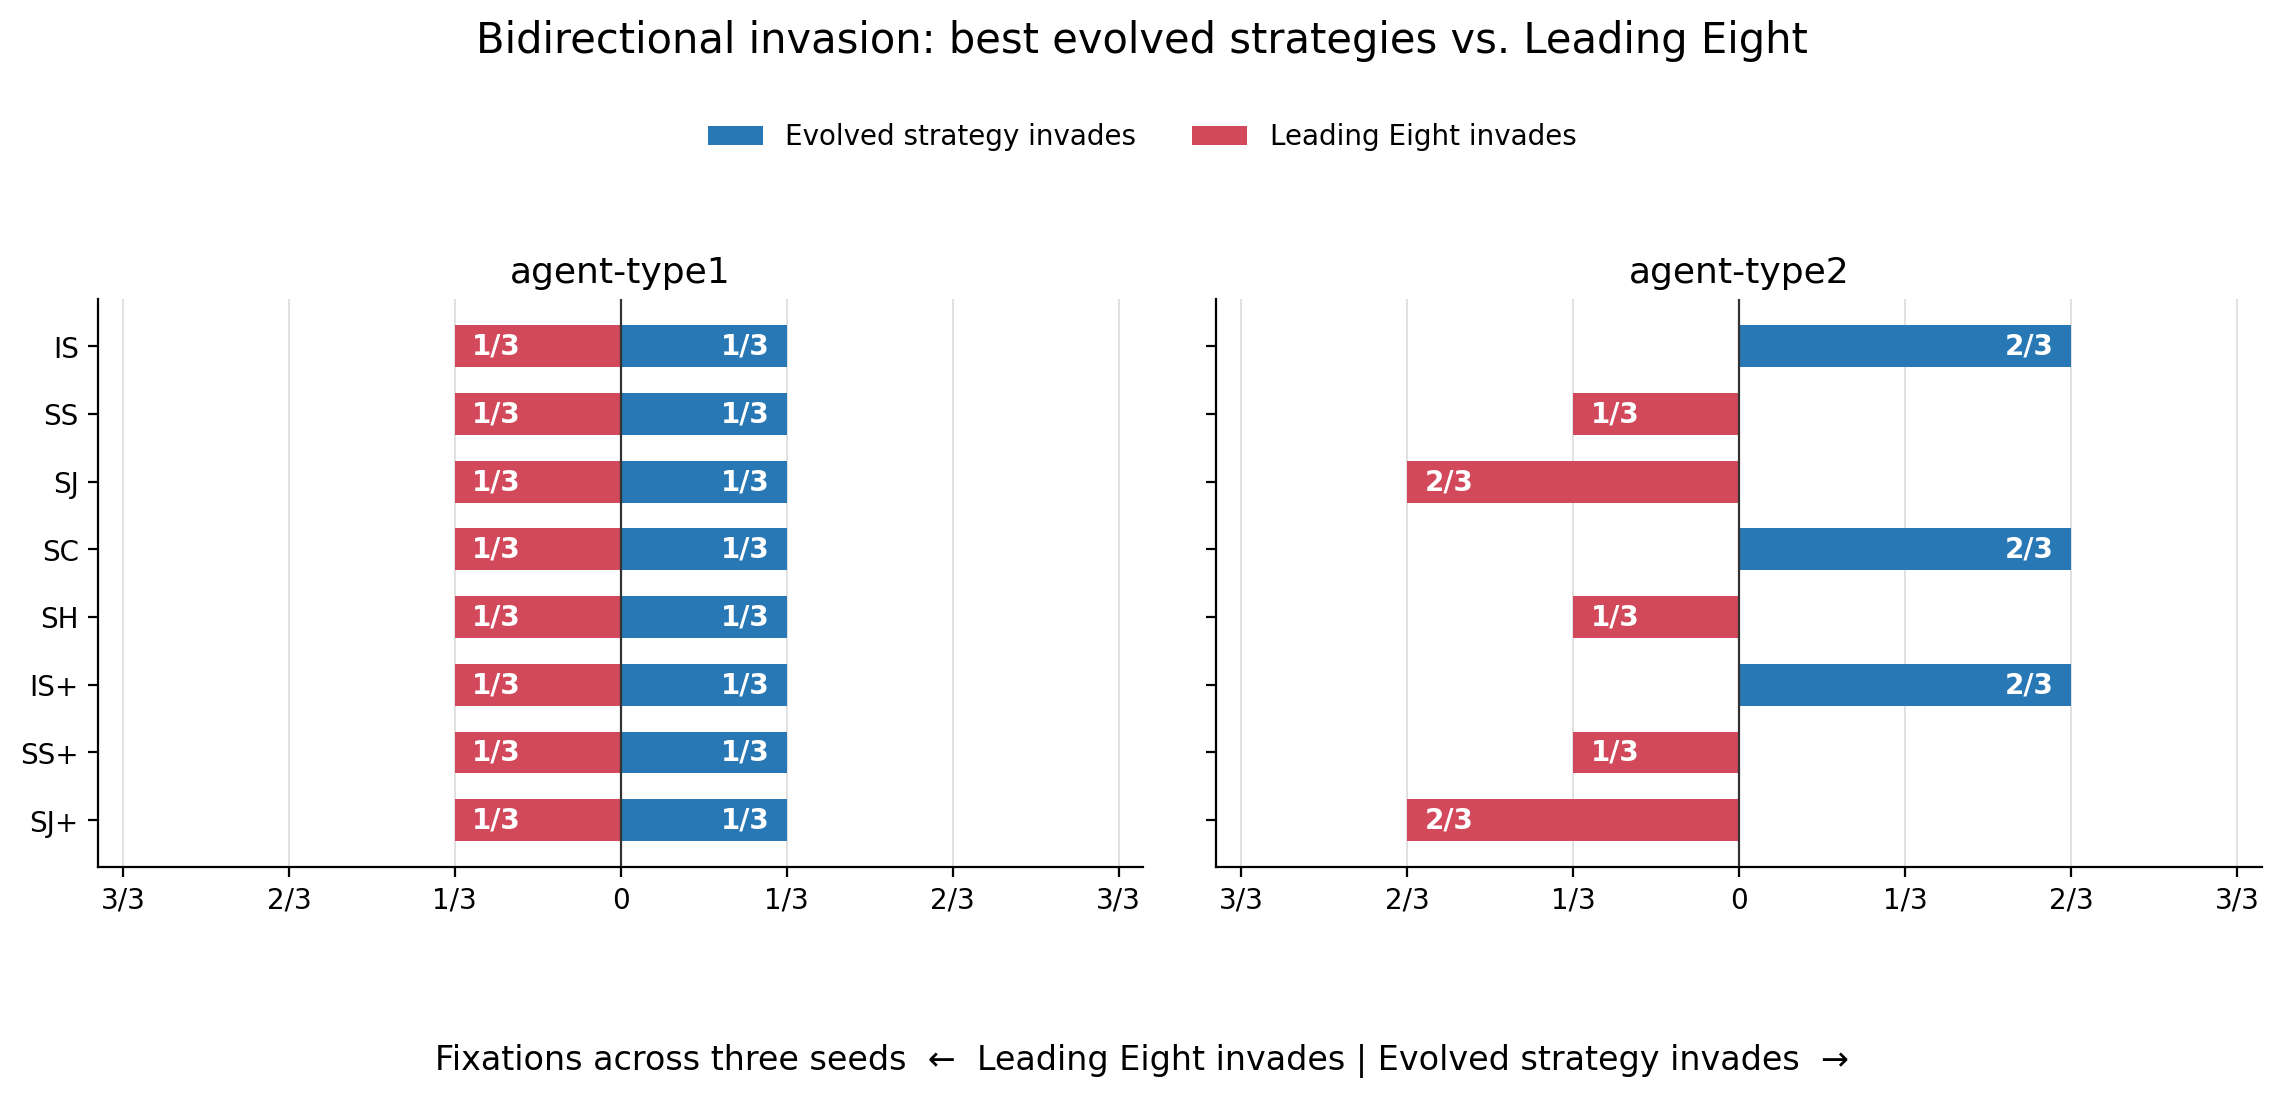
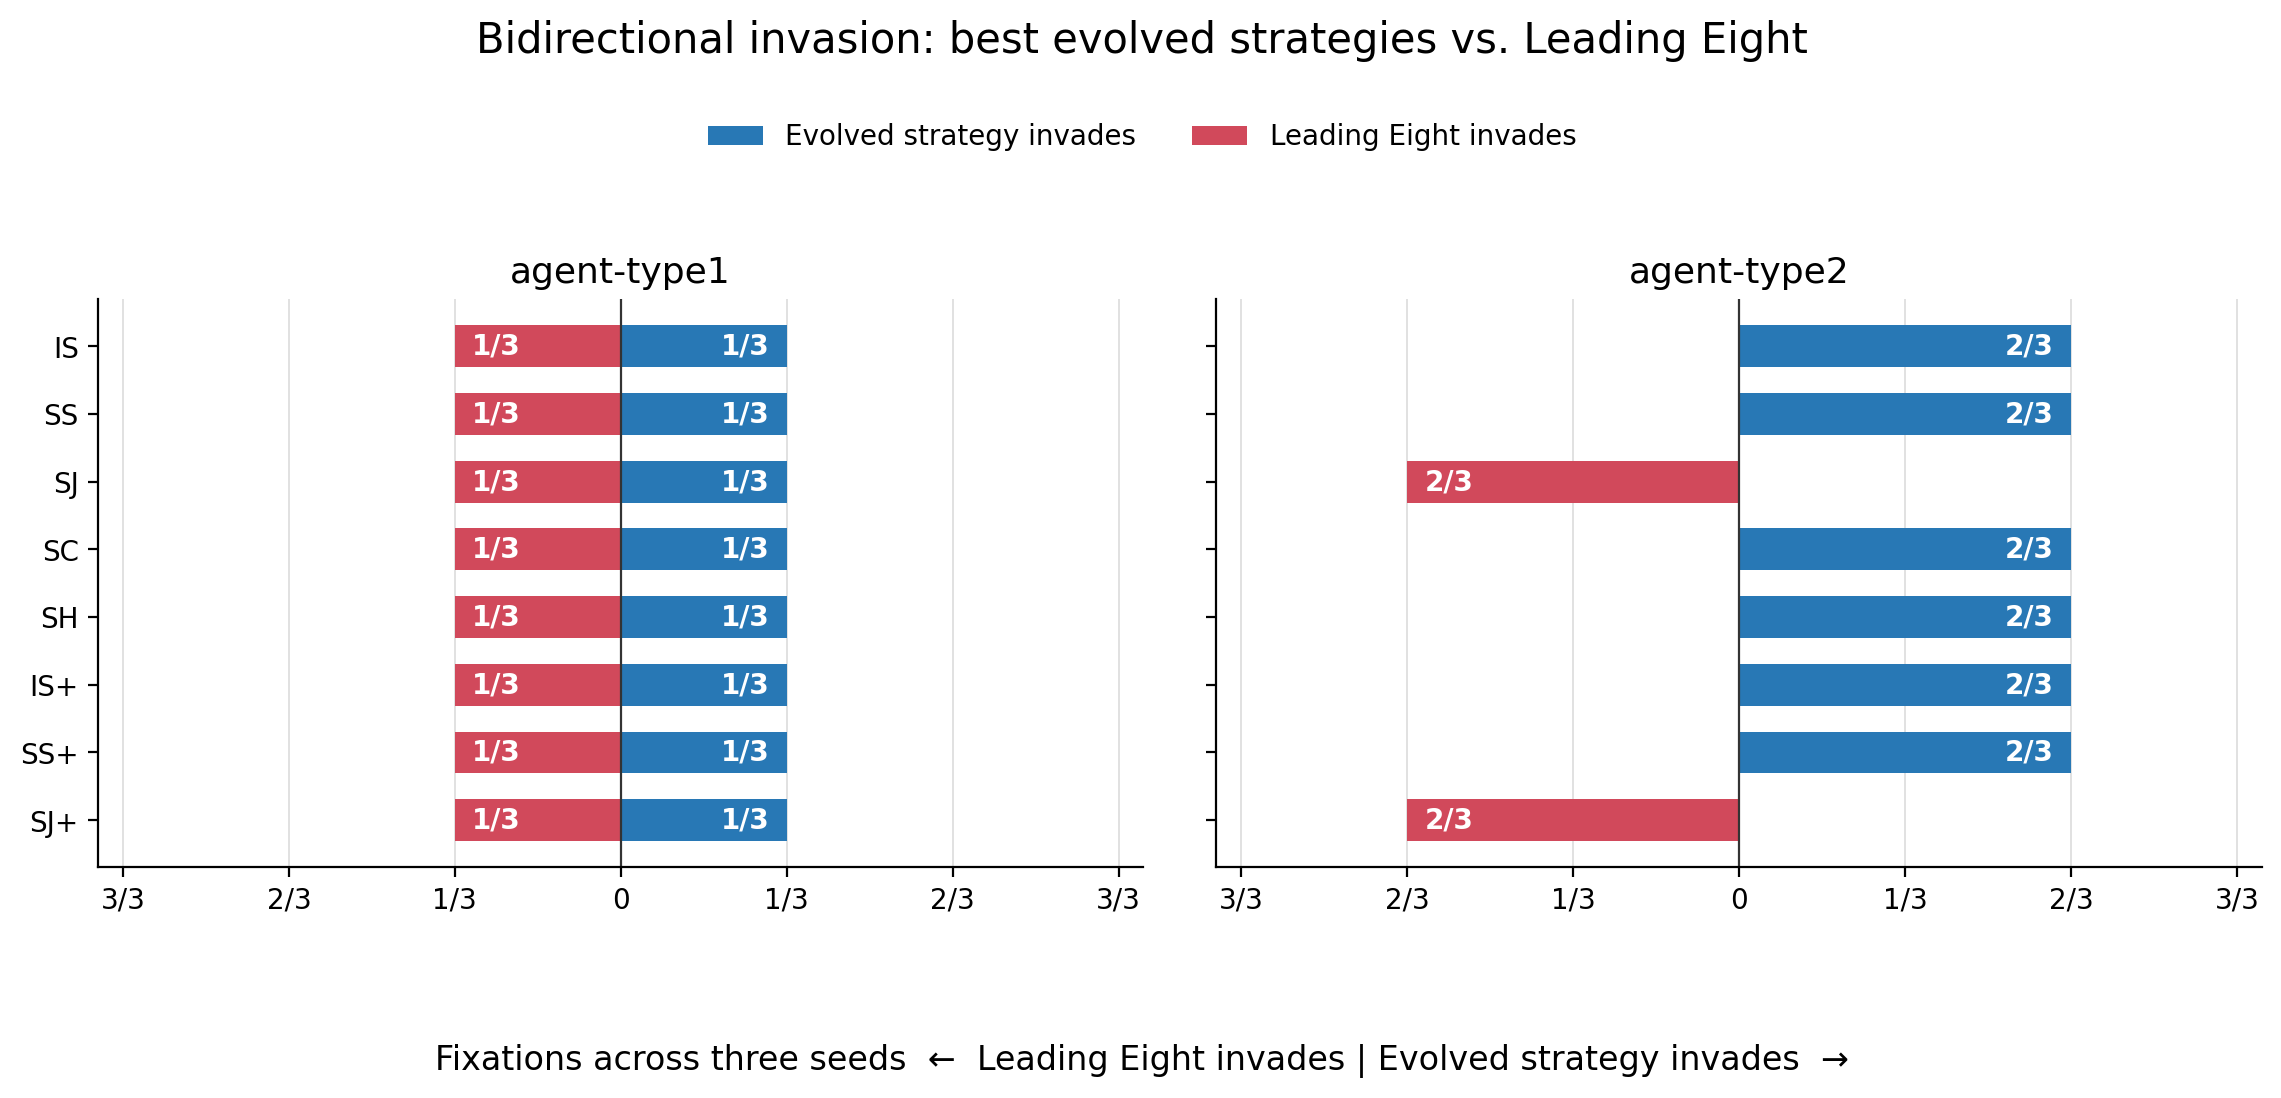
README

Changed region(s): [[0.6848, 0.6503, 0.9338, 0.7122], [0.6848, 0.5264, 0.9338, 0.5883], [0.6848, 0.3406, 0.9338, 0.4026]]

diff --git a/README.md b/README.md
@@ -6,32 +6,35 @@
 
 ## Demo
 
-### PCA strategy-space evolution (seed 0)
+### PCA strategy-space evolution
 
 | `agent-type1` | `agent-type2` |
 | --- | --- |
-| ![agent-type1 seed0 PCA strategy evolution](README.assets/agent-type1_seed0_pca_evolution.gif) | ![agent-type2 seed0 PCA strategy evolution](README.assets/agent-type2_seed0_pca_evolution.gif) |
+| ![agent-type1 seed4 PCA strategy evolution in the joint six-seed space](README.assets/agent-type1_joint6_seed4_pca_evolution.gif) | ![agent-type2 seed0 PCA strategy evolution](README.assets/agent-type2_seed0_pca_evolution.gif) |
 
-The animations use each agent type's latest shared embedding, clustering, and
-PCA coordinates. Each frame shows how the seed-0 population moves through its
-strategy space over generations; colors identify the strategy clusters used in
-the composition plots below.
+For `agent-type1`, a single embedding, K-means model, and PCA projection are fit
+jointly on every strategy from seeds 0–5. Only seed 4 is rendered because it has
+the highest final cooperation rate (`1.000`) among the six runs. Its animation
+therefore moves inside the common six-seed coordinate system, and its colors
+use the common `K=19` cluster labels. The `agent-type2` panel continues to show
+its seed-0 analysis.
 
 A compact research showcase of how LLM-evolved strategies behave in reputation-driven cooperation games.
 
 The core result is that cooperation can emerge from LLM-generated strategies, but the outcome is strongly seed-dependent and sensitive to the implementation details of the reputation logic. Classical indirect-reciprocity norms remain more stable, while learned strategies are promising but less robust.
 
-### 1) Six-run comparison: agent-type1 vs. agent-type2
+### 1) Cooperation evolution: agent-type1 vs. agent-type2
 
 ![Cooperation evolution comparison between agent-type1 and agent-type2](README.assets/g100_3seed_1000inter.png)
 
-The figure compares six matched runs: three seeds for `agent-type1` and three
-for `agent-type2`. Both panels use 100 generations, 1,000 target interactions
-per generation, a population of 16, and generation-level state reset. Thin
-lines show individual seeds, thick lines show the three-seed mean, and shaded
-bands show one standard deviation. This makes the higher initial cooperation
-of `agent-type2` and the seed-dependent outcomes of both agent types directly
-comparable.
+The figure uses all six updated `agent-type1` runs (seeds 0–5) and the three
+available `agent-type2` runs (seeds 0–2). Both panels use 100 generations,
+1,000 target interactions per generation, a population of 16, and
+generation-level state reset. Thin lines show individual seeds, thick lines
+show the mean for each agent type, and shaded bands show one standard
+deviation. The updated `agent-type1` prompt and interface can produce high
+cooperation, but its runs remain substantially more variable than the three
+`agent-type2` runs.
 
 ### 2) agent-type1 vs. agent-type2: different strategy interfaces
 
@@ -40,7 +43,7 @@ interfaces to the LLM:
 
 | Agent type | Generated strategy | State and memory | Search space |
 | --- | --- | --- | --- |
-| `agent-type1` | Two functions: `evaluate(...)` and `decide(...)` | Limited to values passed through the fixed function interface | Narrower and more explicitly guided |
+| `agent-type1` | Two functions: `observe(...)` and `decide(...)` | Updates donor and recipient reputations through a fixed functional interface | Narrower and more explicitly guided |
 | `agent-type2` | A complete `LLMAgent` class with `__init__`, `decide()`, and `observe(...)` | May maintain internal state and update it after interactions | Richer and less constrained |
 
 This distinction matters when reading the results: differences between the two
@@ -57,39 +60,42 @@ The canonical leading-eight strategies stay near cooperation rate 1.0 across the
 
 | `agent-type1` | `agent-type2` |
 | --- | --- |
-| ![agent-type1 seed0 strategy-cluster composition](README.assets/agent-type1_seed0_cluster_composition.png) | ![agent-type2 seed0 strategy-cluster composition](README.assets/agent-type2_seed0_cluster_composition.png) |
+| ![agent-type1 seed4 strategy-cluster composition from six-seed joint clustering](README.assets/agent-type1_joint6_seed4_cluster_composition.png) | ![agent-type2 seed0 strategy-cluster composition](README.assets/agent-type2_seed0_cluster_composition.png) |
 
-Both panels show seed 0 from the latest shared-clustering analysis. The
-`agent-type1` population moves among a larger set of strategy families, whereas
-`agent-type2` rapidly becomes dominated by one of two broad families. Showing
-the same cluster-composition view side by side makes the agent type explicit
-without conflating their different strategy spaces.
+The `agent-type1` panel shows seed 4 using labels learned jointly from all six
+agent-type1 runs; it is not a seed-4-only clustering. The `agent-type2` panel
+shows seed 0 in its own shared analysis. The agent-type1 population moves among
+a larger set of strategy families, whereas agent-type2 rapidly becomes
+dominated by one of two broad families.
 
 This is the core story of the project: the environment supports cooperation, the LLM can discover cooperative policies, the corrected implementation changes the attractor structure, and the classical norms remain the reliability benchmark.
 
-### 5) Seed-0 survivor ancestry: agent-type1 vs. agent-type2
+### 5) Final-survivor ancestry: agent-type1 vs. agent-type2
 
 | `agent-type1` | `agent-type2` |
 | --- | --- |
-| ![agent-type1 seed0 final-survivor ancestry tree](README.assets/agent-type1_seed0_survivor_tree.png) | ![agent-type2 seed0 final-survivor ancestry tree](README.assets/agent-type2_seed0_survivor_tree.png) |
+| ![agent-type1 seed4 final-survivor ancestry tree using six-seed joint clusters](README.assets/agent-type1_joint6_seed4_survivor_tree.png) | ![agent-type2 seed0 final-survivor ancestry tree](README.assets/agent-type2_seed0_survivor_tree.png) |
 
-Both trees are freshly generated from the matched seed-0 gen-reset runs and
-show only ancestry paths leading to final survivors. Squares mark roots and
-triangles mark final survivors. The comparison exposes the different branching
-patterns produced by the fixed two-function interface and the stateful class
-interface.
+The agent-type1 tree is the highest-final-cooperation run (seed 4), colored by
+the six-seed joint clusters; the agent-type2 tree remains seed 0. Both show only
+ancestry paths leading to final survivors. Squares mark roots and triangles
+mark final survivors.
 
-### 6) Seed-0 lineage survival intervals
+### 6) Lineage survival intervals
 
 | `agent-type1` | `agent-type2` |
 | --- | --- |
-| ![agent-type1 seed0 lineage survival intervals](README.assets/agent-type1_seed0_lineage_survival.png) | ![agent-type2 seed0 lineage survival intervals](README.assets/agent-type2_seed0_lineage_survival.png) |
+| ![agent-type1 seed4 lineage survival intervals using six-seed joint clusters](README.assets/agent-type1_joint6_seed4_lineage_survival.png) | ![agent-type2 seed0 lineage survival intervals](README.assets/agent-type2_seed0_lineage_survival.png) |
 
 Each horizontal interval runs from a collapsed lineage's birth to its last
-appearance. Colors use the same automatic code-embedding analysis applied to
-each run: K=20 for `agent-type1` and K=2 for `agent-type2`.
+appearance. Agent-type1 uses the common six-seed analysis (`K=19`) and displays
+seed 4; agent-type2 uses its seed-0 analysis (`K=2`).
 
 ### 7) Representative final survivor from each dominant lineage family
+
+This section documents the representatives used by the bidirectional invasion
+experiment: seed 4 for `agent-type1` and seed 0 for `agent-type2`, matching the
+representative runs used by the visual analyses above.
 
 The selection rule is identical for both runs: group final agents by root
 lineage, choose the root family with the most final members, then choose the
@@ -97,33 +103,53 @@ highest-fitness member of that family (breaking ties by agent ID).
 
 | Agent type | Dominant root lineage | Final members | Representative | Fitness | Behavioral summary |
 | --- | ---: | ---: | ---: | ---: | --- |
-| `agent-type1` | 532 | 13/16 | agent 10 | 19.0 | Cooperates with non-negative-reputation opponents and uses own reputation to update assessments |
+| `agent-type1` | 14 | 15/16 | agent 0 | 25.0 | Uses context-sensitive bounded reputation updates and cooperates with neutral-to-good opponents |
 | `agent-type2` | 11 | 13/16 | agent 1 | 26.0 | Maintains opponent histories, estimates conditional cooperation, and adapts trust, generosity, exploration, and risk tolerance |
 
 #### agent-type1 representative (complete strategy)
 
-Source: agent 10 in the
-[`agent-type1` seed-0 evolution record](results/quantitative_baseline/LLM_v2_fermi_z_v3_g100_1000inter_N16_genreset_seed0/evolutionary.json).
+Source: agent 0 in the
+[`agent-type1` seed-4 evolution record](results/quantitative_baseline/LLM_agent-type1_fermi_z_v3_g100_1000inter_N16_genreset_seed4/evolutionary.json).
 
 ```python
-def evaluate(target_reputation: float, target_action: str, my_reputation: float) -> float:
-  # Update based on target's action relative to observer's reputation
-  # If observer is cooperative (positive reputation), reward cooperation and punish defection
-  # If observer is selfish (negative reputation), reward defection and punish cooperation
-  if target_action == 'cooperate':
-    # Cooperation is good if observer is cooperative
-    return target_reputation + (my_reputation * 0.2)
-  else:  # defect
-    # Defection is bad if observer is cooperative
-    return target_reputation - (my_reputation * 0.2)
+def observe(
+    donor_reputation: float,
+    donor_action: str,
+    recipient_reputation: float,
+    recipient_action: str,
+    my_reputation: float,
+) -> tuple[float, float]:
+    if donor_action == "cooperate":
+        weight = 0.4 if recipient_reputation >= 0 else 0.2
+        donor_new = donor_reputation + weight * (1 - abs(donor_reputation))
+        if recipient_action == "defect":
+            donor_new -= 0.3
+    else:
+        donor_new = donor_reputation - 0.5 if recipient_reputation >= 0 else donor_reputation + 0.3 * (1 - abs(donor_reputation))
+        if recipient_action == "cooperate":
+            donor_new -= 0.4
+
+    if recipient_action == "cooperate":
+        weight = 0.4 if donor_reputation >= 0 else 0.2
+        recipient_new = recipient_reputation + weight * (1 - abs(recipient_reputation))
+        if donor_action == "defect":
+            recipient_new -= 0.3
+    else:
+        recipient_new = recipient_reputation - 0.5 if donor_reputation >= 0 else recipient_reputation + 0.3 * (1 - abs(recipient_reputation))
+        if donor_action == "cooperate":
+            recipient_new -= 0.4
+
+    return (
+        max(-1.0, min(1.0, donor_new)),
+        max(-1.0, min(1.0, recipient_new)),
+    )
 
 def decide(my_reputation: float, opponent_reputation: float) -> bool:
-  # Cooperate if opponent is sufficiently cooperative relative to self
-  # Also cooperate if both are neutral or unknown
-  if opponent_reputation >= 0.0:
-    return True
-  # If opponent is untrustworthy, defect unless we are also untrustworthy (then mirror)
-  return my_reputation < 0.0
+    if opponent_reputation >= 0.3 and my_reputation > -0.35:
+        return True
+    if opponent_reputation < -0.2:
+        return False
+    return opponent_reputation > -0.1
 ```
 
 #### agent-type2 representative (decision core)
@@ -159,9 +185,10 @@ def decide(self) -> bool:
     return random.random() < 0.2 * self.risk_tolerance
 ```
 
-The contrast is structural as well as behavioral: `agent-type1` expresses a
-compact reputation rule, while `agent-type2` combines opponent modeling with
-persistent state and online adaptation.
+The contrast is structural as well as behavioral: the updated `agent-type1`
+expresses observation and action as two stateless functions, while
+`agent-type2` combines opponent modeling with persistent state and online
+adaptation.
 
 ### 8) Best evolved strategies vs. the Leading Eight: bidirectional invasion
 
@@ -183,16 +210,20 @@ The formal batch contains 96 runs: two agent types, eight norms, two invasion
 directions, and three seeds. Every run uses 50 generations, 1,000 interactions
 per generation, an 800-interaction burn-in, a 200-interaction fitness window,
 `b=2`, `c=1`, full observation, observer-private reputations, `beta=5`, and 15
-Fermi updates per generation.
+Fermi updates per generation. As in the population module, every slot is
+re-instantiated after selection: its stable ID and selected strategy type are
+preserved, while private reputations and strategy-internal state reset.
 
-The main signal is asymmetric for `agent-type2`: it fixed in two of three runs
-against `IS`, `SC`, and `IS+`, while none of those norms fixed when invading it.
-It did not fix against the other five norms, and `SJ` and `SJ+` each fixed in
-two of three reverse-direction runs. The `agent-type1` outcomes were identical
-across norms but strongly seed-dependent: seed 1 fixed and seeds 0 and 2 became
-extinct in both directions. Because each cell contains only three seeds, these
-fractions are descriptive results rather than precise estimates of fixation
-probability.
+The updated result is strongly asymmetric for `agent-type2`: it fixed in two
+of three runs against `IS`, `SS`, `SC`, `SH`, `IS+`, and `SS+`, and none of
+those six norms fixed in the reverse direction. `SJ` and `SJ+` show the opposite
+pattern, fixing in two of three runs against `agent-type2` while resisting all
+three outward invasion attempts. The seed-4 `agent-type1` representative fixed
+in one of three runs against every Leading Eight norm, and every norm likewise
+fixed in one of three reverse-direction runs; it shows no directional advantage
+in this three-seed batch.
+Because each cell contains only three seeds, these fractions are descriptive
+results rather than precise estimates of fixation probability.
 
 Run or resume this single-invader batch with:
 
